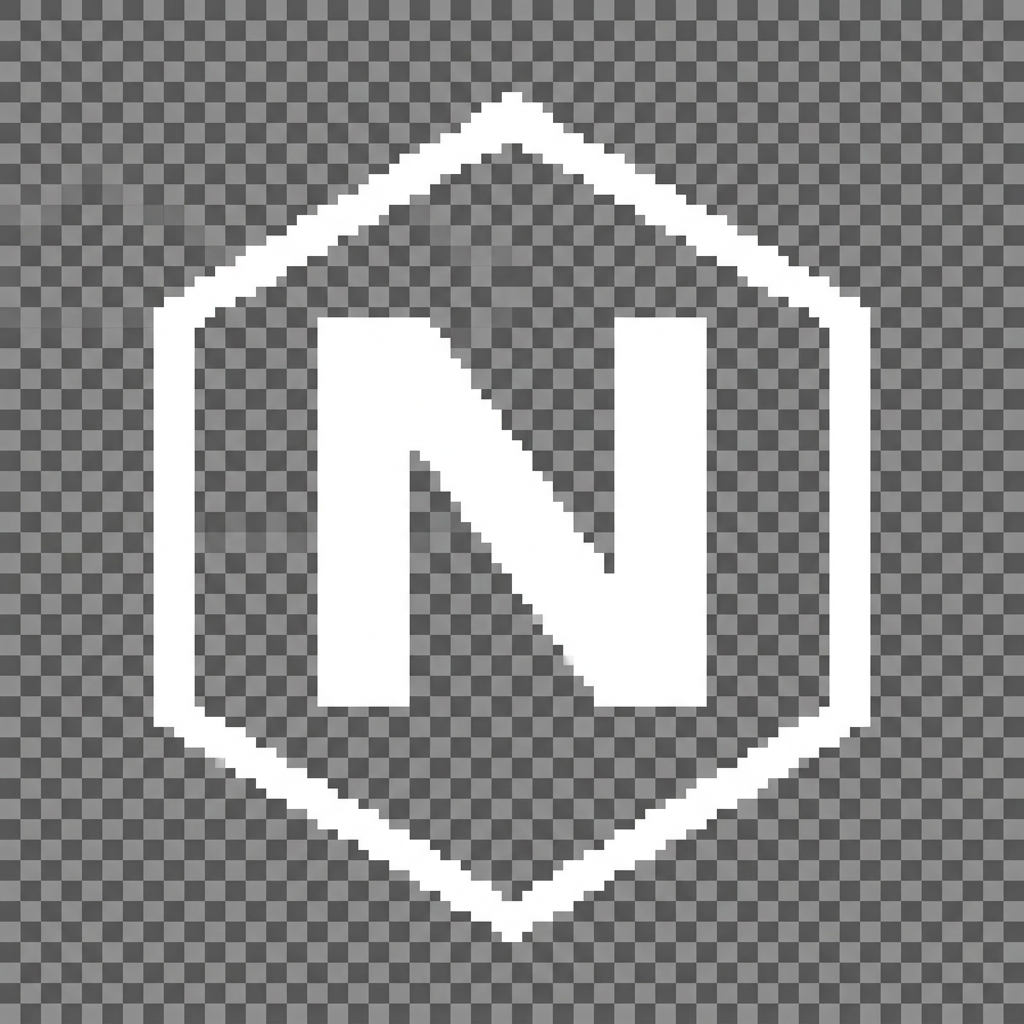
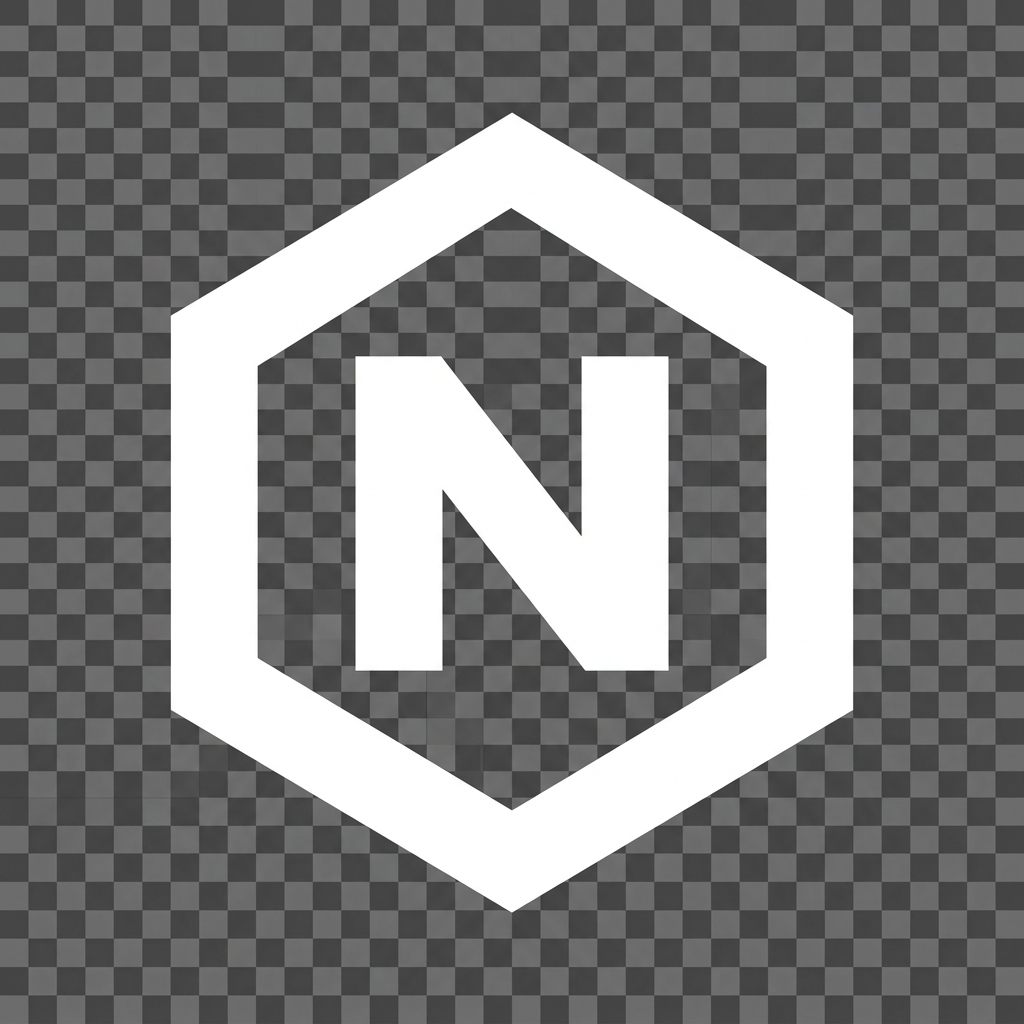
V.7.0

diff --git a/server/server.js b/server/server.js
@@ -876,6 +876,7 @@ async function queueMessageForUser(username, msgData) {
         body: pushBody,
         icon: '/icon.png',
         badge: '/badge.png',
+        color: '#0066ff',
         data: {
             from: msgData.from,
             ciphertext: msgData.ciphertext,
@@ -1246,7 +1247,7 @@ io.on('connection', (socket) => {
     // Server ONLY relays — never inspects SDP or ICE data
     // ═══════════════════════════════════════════════
 
-    socket.on('call:offer', (data) => {
+    socket.on('call:offer', async (data) => {
         const senderId = socketToUser.get(socket.id);
         const targetId = data.to?.toLowerCase();
         if (senderId) {
@@ -1262,22 +1263,37 @@ io.on('connection', (socket) => {
                 return;
             }
 
+            // Fetch caller avatar for the push notification preview
+            let callerAvatar = null;
+            try {
+                const user = await db.get('SELECT avatar_url FROM users WHERE LOWER(username) = ?', [senderId.toLowerCase()]);
+                if (user) callerAvatar = user.avatar_url;
+            } catch (e) { /* ignore fallback */ }
+
             io.to(targetId).emit('call:offer', {
                 from: senderId,
                 sdp: data.sdp,
                 callType: data.callType,
                 callerName: data.callerName,
                 callerColor: data.callerColor,
+                callerAvatar: callerAvatar || data.callerAvatar,
                 roomId: data.roomId // Pass along room ID if provided
             });
+
             // Push notification for incoming call (using privacy text)
             sendPushNotification(targetId, {
                 title: `Incoming Secret Call`,
-                body: `An encrypted call is incoming on Nexora 🔐`,
+                body: `${data.callerName || 'Someone'} is calling you on Nexora 🔐`,
                 icon: '/icon.png',
                 badge: '/badge.png',
+                color: '#0066ff',
                 urgency: 'high',
-                data: { type: 'call' }
+                data: { 
+                    type: 'call',
+                    callerName: data.callerName || senderId,
+                    callerAvatar: callerAvatar || data.callerAvatar,
+                    audio: '/ringtone.mp3'
+                }
             });
         }
     });

diff --git a/client/public/sw.js b/client/public/sw.js
@@ -102,22 +102,27 @@ self.addEventListener('push', (event) => {
        else if (msgData.isContact) body = '👤 Shared Contact';
     }
 
+    const isCall = msgData.type === 'call';
     const options = {
       body: body,
       icon: payload.icon || '/icon.png',
       badge: payload.badge || '/badge.png',
-      vibrate: msgData.type === 'call' ? [500, 110, 500, 110, 500, 110, 500, 110, 500] : [200, 100, 200],
+      color: payload.color || '#0066ff',  // Android tint color
+      image: isCall ? (msgData.callerAvatar || null) : null,
+      vibrate: isCall 
+        ? Array(20).fill([500, 500]).flat()
+        : [200, 100, 200],
       data: payload.data || {},
-      actions: msgData.type === 'call' ? [
+      actions: isCall ? [
         { action: 'view', title: 'Answer' },
         { action: 'dismiss', title: 'Decline' },
       ] : [
         { action: 'view', title: 'View' },
         { action: 'dismiss', title: 'Dismiss' },
       ],
-      tag: msgData.type === 'call' ? 'nexora-call' : 'nexora-notification',
+      tag: isCall ? 'nexora-call' : 'nexora-notification',
       renotify: true,
-      requireInteraction: msgData.type === 'call' ? true : false,
+      requireInteraction: isCall ? true : false,
     };
 
     return self.registration.showNotification(title, options);

diff --git a/convert_icon.html b/convert_icon.html
@@ -1,0 +1,16 @@
+<!DOCTYPE html>
+<html>
+<head>
+<style>
+  body { margin: 0; padding: 0; background: transparent; overflow: hidden; display: flex; align-items: center; justify-content: center; width: 120px; height: 120px; }
+  svg { width: 120px; height: 120px; }
+</style>
+</head>
+<body>
+  <svg xmlns="http://www.w3.org/2000/svg" viewBox="0 0 120 120">
+    <rect width="120" height="120" rx="28" fill="#0066ff"/>
+    <path d="M60 20 L95 40 L95 80 L60 100 L25 80 L25 40 Z" fill="none" stroke="#ffffff" stroke-width="8" stroke-linejoin="round"/>
+    <path d="M45 80 V42 L75 80 V42" fill="none" stroke="#ffffff" stroke-width="8" stroke-linecap="round" stroke-linejoin="round"/>
+  </svg>
+</body>
+</html>

diff --git a/convert_badge.html b/convert_badge.html
@@ -1,0 +1,15 @@
+<!DOCTYPE html>
+<html>
+<head>
+<style>
+  body { margin: 0; padding: 0; background: transparent; overflow: hidden; display: flex; align-items: center; justify-content: center; width: 120px; height: 120px; }
+  svg { width: 120px; height: 120px; }
+</style>
+</head>
+<body>
+  <svg xmlns="http://www.w3.org/2000/svg" viewBox="0 0 120 120">
+    <path d="M60 20 L95 40 L95 80 L60 100 L25 80 L25 40 Z" fill="none" stroke="#ffffff" stroke-width="8" stroke-linejoin="round"/>
+    <path d="M45 80 V42 L75 80 V42" fill="none" stroke="#ffffff" stroke-width="8" stroke-linecap="round" stroke-linejoin="round"/>
+  </svg>
+</body>
+</html>
